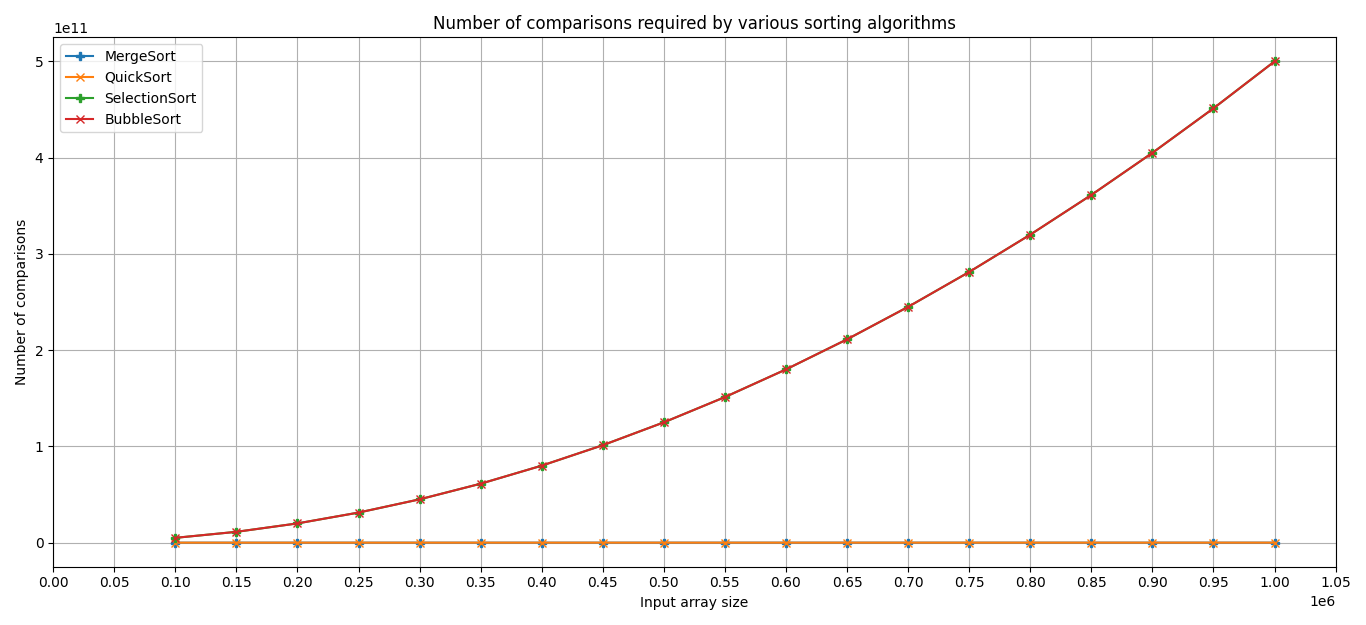
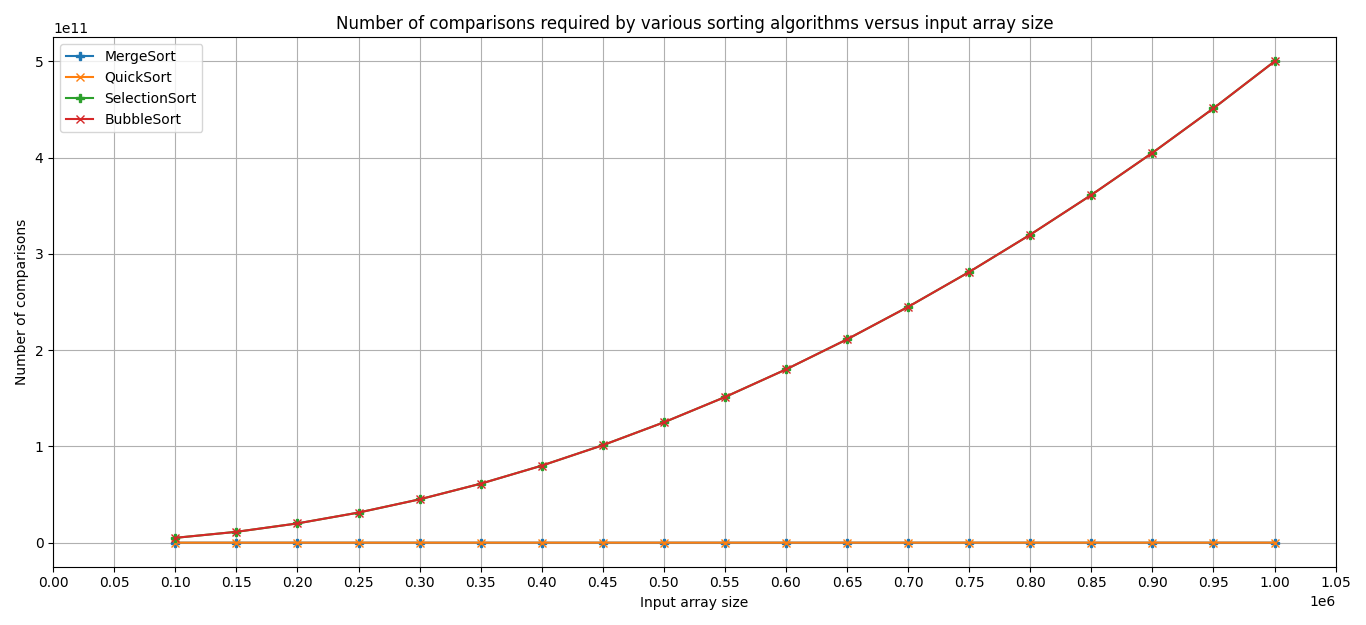
Added more profiling graphs

Changed region(s): [[0.246, 0.0304, 0.7687, 0.0608]]

diff --git a/Sort.c b/Sort.c
@@ -130,7 +130,7 @@ void selectionSort(int array[], unsigned int n, unsigned long *comparisons){
 }
 
 ////////////////////////////////////////////////////////////////// Bubble sort /////////////////////////////////////////////////////////////////////////////////////
-void bubbleSort(int array[], unsigned int n, unsigned long *comparisons){
+void bubbleSort(int array[], unsigned int n, unsigned long *comparisons){ // This is a slighlty optimized version of the bubble sort algorithm
     for(unsigned int i = 0; i < n-1; i++){ // Bubble sort needs to iterate through an 'n' element array a maximum of 'n-1' times as at the end of each iteration, 1 element will be at its correct position
         unsigned sorted = 1; // Assuming the array has been sorted
         for(unsigned int j = 0; j < n-1-i; j++){ // The last element is in its right place
@@ -145,10 +145,10 @@ void bubbleSort(int array[], unsigned int n, unsigned long *comparisons){
             #endif
             *comparisons += 1;   // One element to element comparison (jth element and (j+1)th element)
         }
-        if(sorted) break; // If no swap occurs, the array has been sorted
         #ifdef loop
         *comparisons += 3; // One comparison in the loop's condition, one in the if condition and the other at the inner for loop's exit
         #endif
+        if(sorted) break; // If no swap occurs, the array has been sorted
     }
     #ifdef loop
     *comparisons += 1;   // One comparison in the loop's condition at exit

diff --git a/plot.py b/plot.py
@@ -33,7 +33,7 @@ ax1.legend(algorithms)
 ax1.set(
     xlabel="Input array size", ylabel="Time taken in seconds", 
     xticks=range(0, max, step),
-    title="Comparison of time taken by various sorting algorithms"
+    title="Comparison of time taken by various sorting algorithms versus input array size"
     )
 ax1.grid(True)
 
@@ -41,7 +41,7 @@ ax2.legend(algorithms)
 ax2.set(
     xlabel="Input array size", ylabel="Number of comparisons", 
     xticks=range(0, max, step),
-    title="Number of comparisons required by various sorting algorithms"
+    title="Number of comparisons required by various sorting algorithms versus input array size"
     )
 ax2.grid(True)
 plt.show()

diff --git a/README.md b/README.md
@@ -3,7 +3,7 @@ This is a comparison of the performance of some of the most popular sorting algo
 1. Quick Sort
 2. Merge Sort
 3. Selection Sort
-4. Bubble Sort
+4. Bubble Sort (Sightly optimised to need less than n(n-1)/2 comparisons for sorting an array of n elements)
 
 ## Files
 1. *Sort.h* contains the function prototypes
@@ -13,23 +13,25 @@ This is a comparison of the performance of some of the most popular sorting algo
 5. *Plot.py* is python script that graphs the observations using **matplotib.pyplot** and **numpy**
 
 ## Output Directory Structure
-The Analytics Folder contains four folders (one for each sorting algorithm). These folders inturn have two more folders:
+The Analytics Folder contains the output graphs as well as four subfolders (one for each sorting algorithm). These folders inturn have two more subfolders:
 1. *Element-to-Element-Comparisons-Only* - Contains observations about the algorithm when only element to element comparisons are considered as the basic task.
 2. *Including-Loop-Comparisons* - Contains observations about the algorithm when all comparisons (including loop condition evaluation) are considered as the basic task.
 
-The following graph is obtained when the algorithms are run for varies input sizes considering element to element comparison as the basic task:
-![Graph](Analytics/Comparisons&Timing.png)
+The following graph is obtained when the algorithms are run for various input sizes considering element to element comparison as the basic task
+![Graph](Analytics/Combined.png)
 
 ## Dependencies
 - A C++ compiler (*e.g.*, [GCC](http://gcc.gnu.org/))
-- Python modules: Numpy and Matplotlib
+- Python 3 with the following additional modules: 
+    - Numpy
+    - Matplotlib
 
 ## Compiling and Running the Benchmark
 
 Clone the repository:
 
 ```bash
-$ git clone https://github.com/...
+$ git clone https://github.com/Dhruval360/Sorting-Algorithms.git
 ```
 
 Execute the `Run.sh` script:
